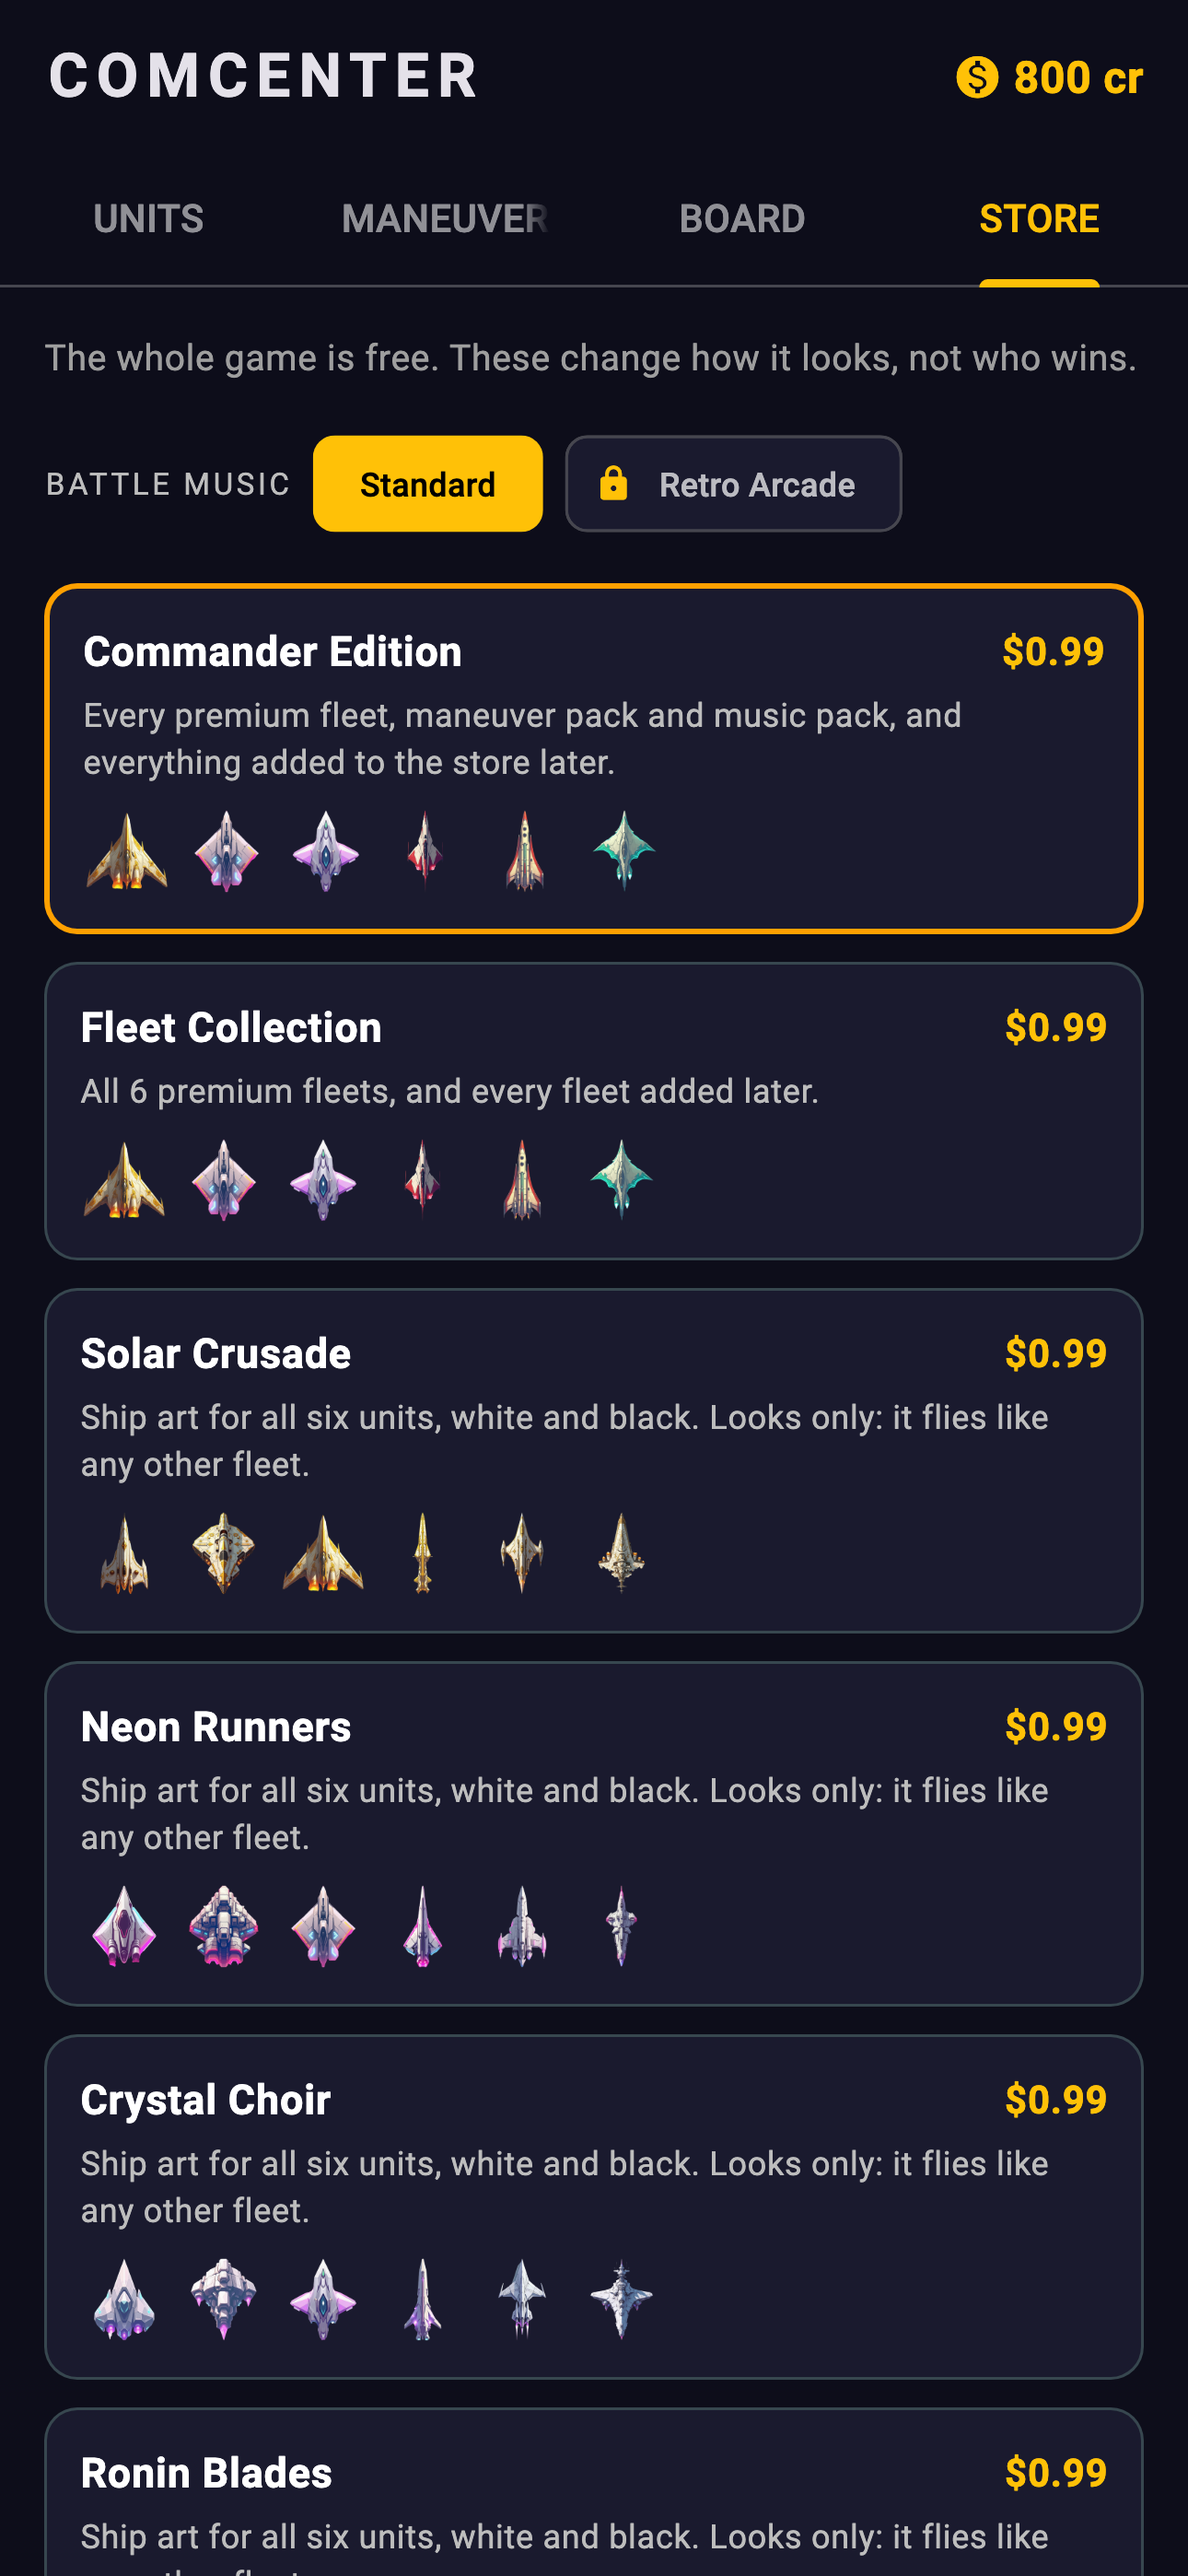
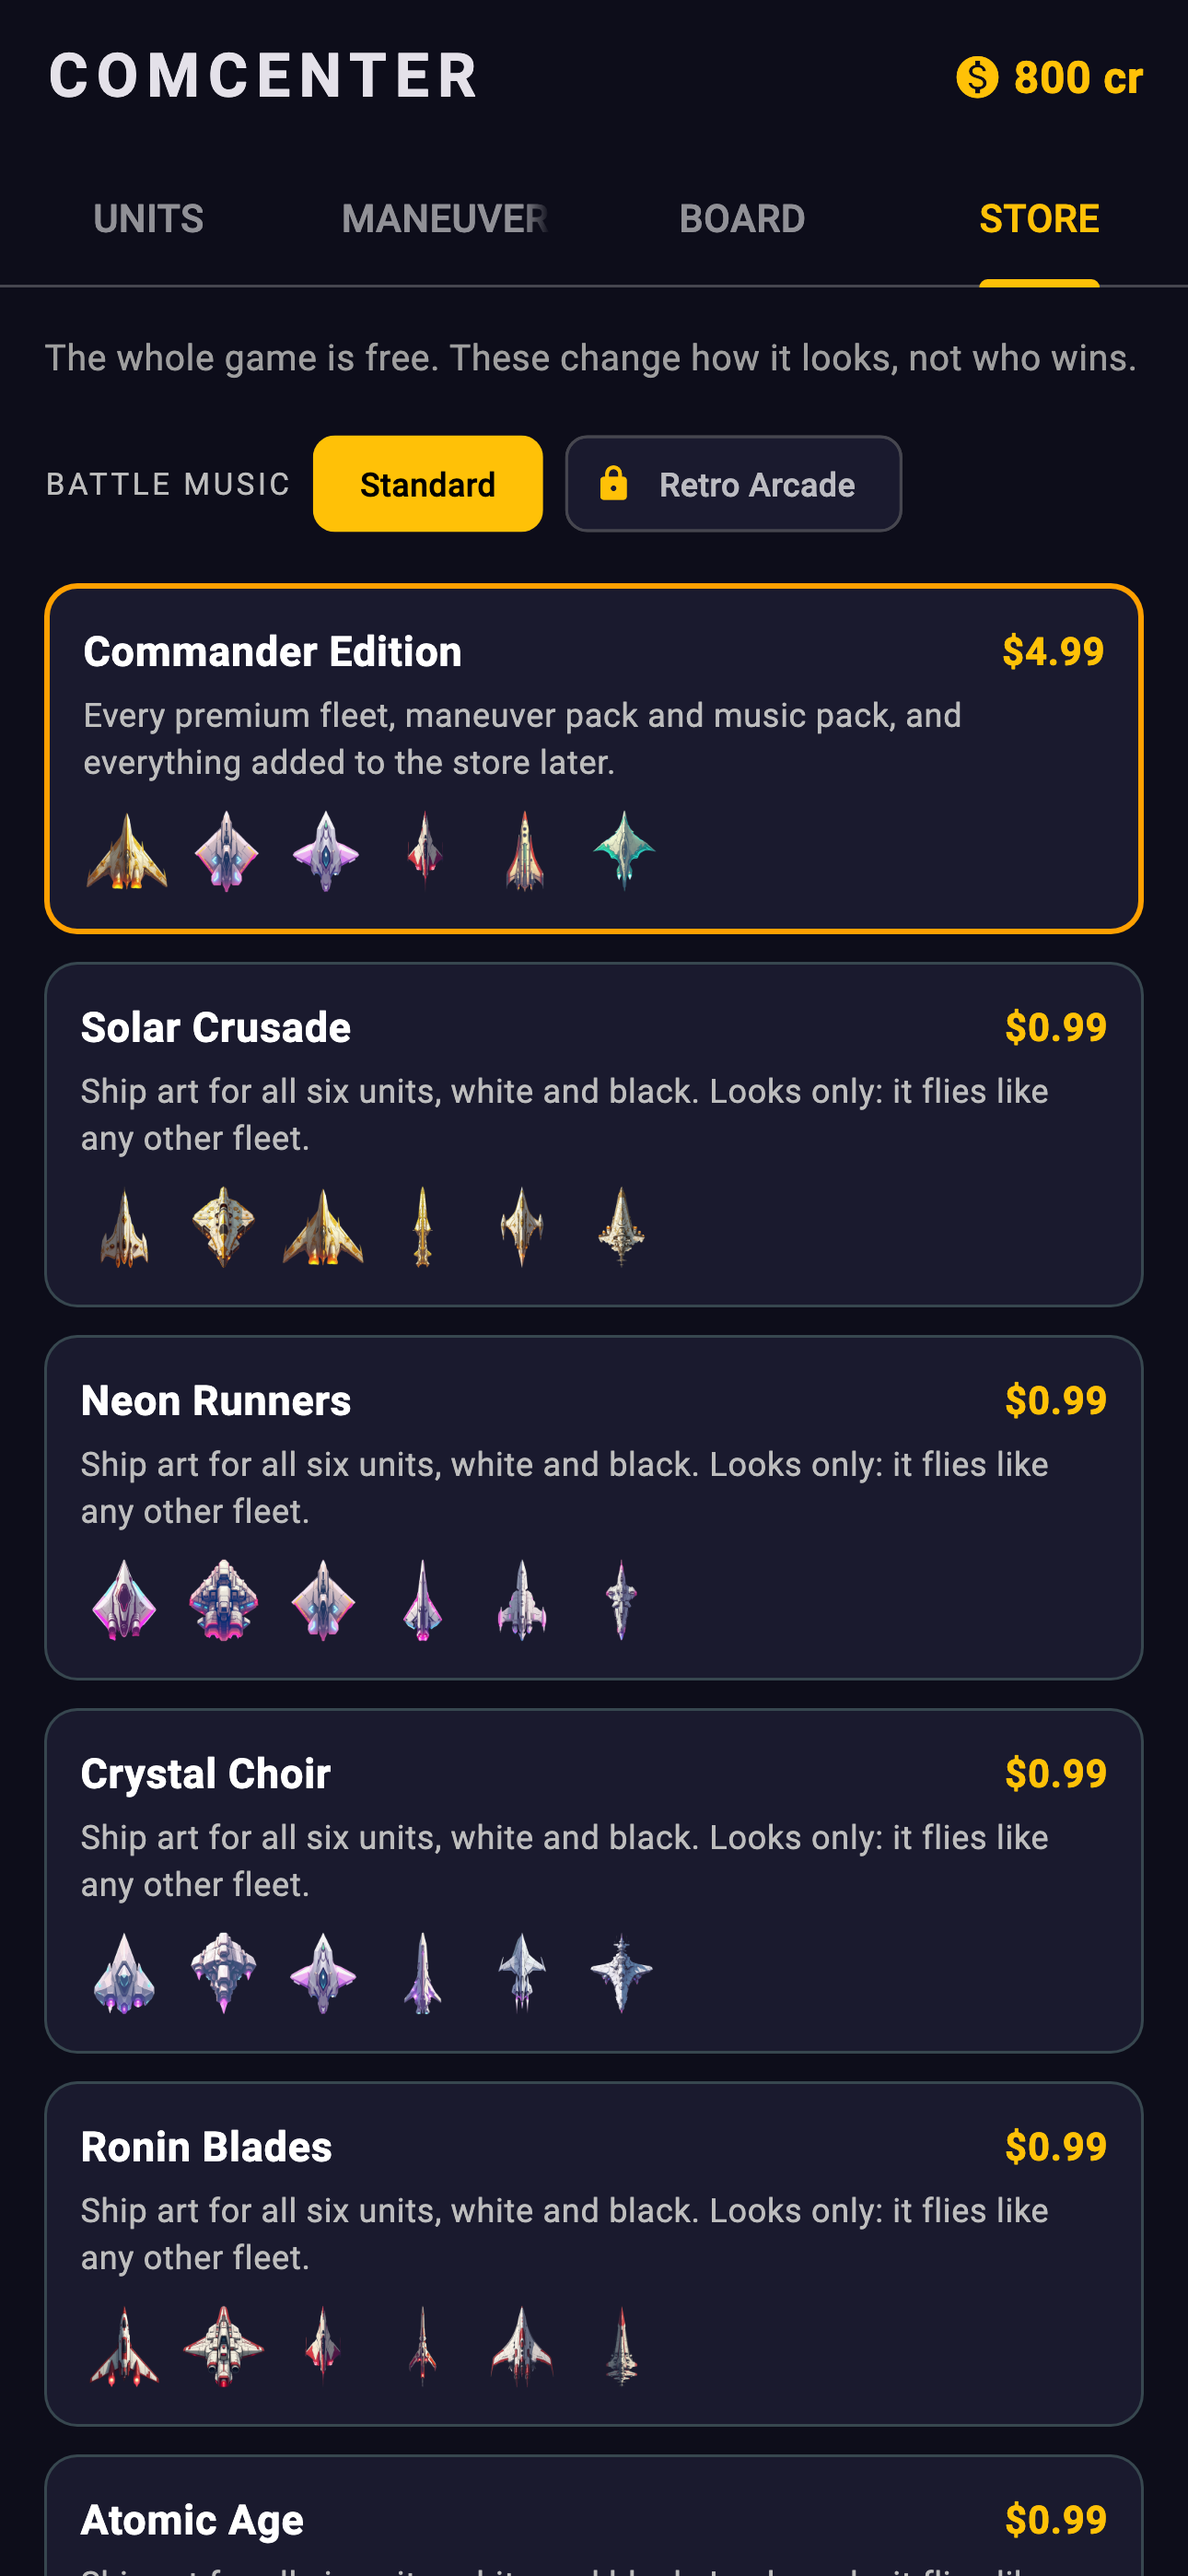
feat(store): Commander Edition at USD 4.99, Fleet Collection dropped
Olin: one pack USD 0.99, all packs USD 4.99. The Commander Edition is
the one bundle; the Fleet Collection (the six fleets) is gone, so a fleet
is bought alone or with everything. 11 products.

Claude-Session: https://claude.ai/code/session_01RgN3TZvuACGJsvKU29TVzv

Changed region(s): [[0.031, 0.3734, 0.9612, 1.0], [0.7752, 0.4045, 0.8682, 0.4356]]

diff --git a/test/store_screenshots/store_screenshots_test.dart b/test/store_screenshots/store_screenshots_test.dart
@@ -37,6 +37,7 @@ import 'package:orbitron_tactics/features/onboarding/presentation/how_to_play_sc
 import 'package:orbitron_tactics/features/progress/data/fleet_progress_store.dart';
 import 'package:orbitron_tactics/features/progress/presentation/providers/fleet_progress_provider.dart';
 import 'package:orbitron_tactics/features/store/data/purchase_service.dart';
+import 'package:orbitron_tactics/features/store/data/store_catalog.dart';
 import 'package:orbitron_tactics/features/store/presentation/providers/store_providers.dart';
 import 'package:orbitron_tactics/main.dart';
 import 'package:shared_preferences/shared_preferences.dart';
@@ -72,9 +73,12 @@ class _ShopWindow extends PurchaseService {
           id: _price(id),
       };
 
-  // Every product costs USD 0.99; the Czech price stays in dollars because
-  // the store's own conversion to crowns is not known here.
-  String _price(String id) => czech ? '0,99 US\$' : '\$0.99';
+  // USD 0.99 a product, 4.99 the Commander Edition; the Czech price stays in
+  // dollars because the store's own conversion to crowns is not known here.
+  String _price(String id) {
+    final usd = id == StoreCatalog.commanderId ? '4.99' : '0.99';
+    return czech ? '${usd.replaceAll('.', ',')} US\$' : '\$$usd';
+  }
 
   @override
   Future<Set<String>> owned() async => {};

diff --git a/lib/features/store/data/store_catalog.dart b/lib/features/store/data/store_catalog.dart
@@ -4,7 +4,7 @@ import '../../battle/data/battle_music.dart';
 import '../../battle/data/fleet_skin.dart';
 
 /// What a store item hands over.
-enum StoreItemKind { commander, fleetBundle, fleet, maneuverPack, music }
+enum StoreItemKind { commander, fleet, maneuverPack, music }
 
 /// One product in the store. [id] is the product id in Google Play and App
 /// Store Connect, the same on both.
@@ -44,7 +44,6 @@ class StoreCatalog {
   static const _prefix = 'com.ol1n.orbitrontactics.pack.';
 
   static const commanderId = '${_prefix}commander';
-  static const fleetBundleId = '${_prefix}fleets';
 
   static String fleetId(FleetSkin skin) => '${_prefix}fleet_${skin.slug}';
   static String packId(String pack) => '$_prefix$pack';
@@ -63,13 +62,6 @@ class StoreCatalog {
       title: 'Commander Edition',
       description: 'Every premium fleet, maneuver pack and music pack, and '
           'everything added to the store later.',
-    ),
-    StoreItem._(
-      id: fleetBundleId,
-      kind: StoreItemKind.fleetBundle,
-      title: 'Fleet Collection',
-      description: 'All ${premiumFleets.length} premium fleets, and every '
-          'fleet added later.',
     ),
     for (final skin in premiumFleets)
       StoreItem._(

diff --git a/test/features/store/entitlements_test.dart b/test/features/store/entitlements_test.dart
@@ -56,15 +56,6 @@ void main() {
       expect(one.ownsFleet(solar), isTrue);
       expect(one.ownsFleet(neon), isFalse);
       expect(one.owns(StoreCatalog.forFleet(solar)), isTrue);
-      expect(one.owns(StoreCatalog.byId(StoreCatalog.fleetBundleId)!),
-          isFalse);
-    });
-
-    test('the fleet collection unlocks every fleet, not the packs', () {
-      const bundle = Entitlements(products: {StoreCatalog.fleetBundleId});
-      expect(StoreCatalog.premiumFleets.every(bundle.ownsFleet), isTrue);
-      expect(bundle.ownsPack('ace'), isFalse);
-      expect(bundle.ownedPacks, isEmpty);
     });
 
     test('the commander edition unlocks everything', () {
@@ -86,7 +77,7 @@ void main() {
               .ownsMusic(BattleMusic.retro),
           isTrue);
       expect(
-          const Entitlements(products: {StoreCatalog.fleetBundleId})
+          Entitlements(products: {StoreCatalog.fleetId(FleetSkin.solarCrusade)})
               .ownsMusic(BattleMusic.retro),
           isFalse);
     });

diff --git a/lib/l10n/l10n.dart b/lib/l10n/l10n.dart
@@ -60,7 +60,6 @@ extension ContentL10n on AppLocalizations {
 
   String storeTitle(StoreItem item) => switch (item.kind) {
         StoreItemKind.commander => itemCommanderTitle,
-        StoreItemKind.fleetBundle => itemFleetsTitle,
         StoreItemKind.fleet => item.fleet!.displayName,
         StoreItemKind.maneuverPack => packName(item.pack!),
         StoreItemKind.music => itemMusicTitle(musicName(item.music!)),
@@ -68,8 +67,6 @@ extension ContentL10n on AppLocalizations {
 
   String storeDescription(StoreItem item) => switch (item.kind) {
         StoreItemKind.commander => itemCommanderDescription,
-        StoreItemKind.fleetBundle =>
-          itemFleetsDescription(StoreCatalog.premiumFleets.length),
         StoreItemKind.fleet => itemFleetDescription,
         StoreItemKind.maneuverPack => content(item.pack!.description),
         StoreItemKind.music => itemMusicDescription,

diff --git a/lib/features/store/data/entitlements.dart b/lib/features/store/data/entitlements.dart
@@ -17,12 +17,10 @@ class Entitlements {
 
   bool get commander => products.contains(StoreCatalog.commanderId);
 
-  bool get allFleets =>
-      commander || products.contains(StoreCatalog.fleetBundleId);
 
   bool ownsFleet(FleetSkin skin) =>
       !skin.premium ||
-      allFleets ||
+      commander ||
       products.contains(StoreCatalog.fleetId(skin)) ||
       legacyFleets.contains(skin.slug);
 
@@ -37,7 +35,6 @@ class Entitlements {
   /// Whether everything [item] hands over is already here.
   bool owns(StoreItem item) => switch (item.kind) {
         StoreItemKind.commander => commander,
-        StoreItemKind.fleetBundle => allFleets,
         StoreItemKind.fleet => ownsFleet(item.fleet!),
         StoreItemKind.maneuverPack => ownsPack(item.pack!.id),
         StoreItemKind.music => ownsMusic(item.music!),

diff --git a/lib/l10n/app_localizations.dart b/lib/l10n/app_localizations.dart
@@ -752,18 +752,6 @@ abstract class AppLocalizations {
   /// **'Every premium fleet, maneuver pack and music pack, and everything added to the store later.'**
   String get itemCommanderDescription;
 
-  /// No description provided for @itemFleetsTitle.
-  ///
-  /// In en, this message translates to:
-  /// **'Fleet Collection'**
-  String get itemFleetsTitle;
-
-  /// No description provided for @itemFleetsDescription.
-  ///
-  /// In en, this message translates to:
-  /// **'All {count} premium fleets, and every fleet added later.'**
-  String itemFleetsDescription(int count);
-
   /// No description provided for @itemFleetDescription.
   ///
   /// In en, this message translates to:

diff --git a/lib/l10n/app_localizations_cs.dart b/lib/l10n/app_localizations_cs.dart
@@ -402,14 +402,6 @@ class AppLocalizationsCs extends AppLocalizations {
       'Všechny prémiové flotily, balíčky manévrů i hudby a vše, co do obchodu přibude.';
 
   @override
-  String get itemFleetsTitle => 'Sbírka flotil';
-
-  @override
-  String itemFleetsDescription(int count) {
-    return 'Všech $count prémiových flotil a každá další, která přibude.';
-  }
-
-  @override
   String get itemFleetDescription =>
       'Vzhled lodí všech šesti jednotek, bílých i černých. Jen vzhled: létá jako každá jiná flotila.';
 

diff --git a/lib/l10n/app_localizations_en.dart b/lib/l10n/app_localizations_en.dart
@@ -400,14 +400,6 @@ class AppLocalizationsEn extends AppLocalizations {
       'Every premium fleet, maneuver pack and music pack, and everything added to the store later.';
 
   @override
-  String get itemFleetsTitle => 'Fleet Collection';
-
-  @override
-  String itemFleetsDescription(int count) {
-    return 'All $count premium fleets, and every fleet added later.';
-  }
-
-  @override
   String get itemFleetDescription =>
       'Ship art for all six units, white and black. Looks only: it flies like any other fleet.';
 

diff --git a/test/features/store/store_ui_test.dart b/test/features/store/store_ui_test.dart
@@ -79,6 +79,8 @@ void main() {
             .descendant(
                 of: find.byType(StoreTab), matching: find.byType(Scrollable))
             .first);
+    await tester.ensureVisible(find.text('RESTORE PURCHASES'));
+    await tester.pumpAndSettle();
     await tester.tap(find.text('RESTORE PURCHASES'));
     await tester.pumpAndSettle();
 

diff --git a/lib/features/store/presentation/widgets/store_item_preview.dart b/lib/features/store/presentation/widgets/store_item_preview.dart
@@ -28,7 +28,6 @@ class StoreItemPreview extends StatelessWidget {
           ],
           size: size,
         );
-      case StoreItemKind.fleetBundle:
       case StoreItemKind.commander:
         return _Ships(
           assets: [

diff --git a/Prompts/10-RELEASE-checklist.md b/Prompts/10-RELEASE-checklist.md
@@ -4,7 +4,7 @@
 > `claude/plan-monetizace` (Android podpis, Supabase RLS, telemetrie, obchod,
 > onboarding). Tady jsou kroky, které potřebují tvoje účty, klíče nebo Mac.
 > Od té doby přibyly: balíčky manévrů Phantom a Striker, hudba Retro Arcade,
-> čeština v aplikaci a screenshoty do storu. Produktů je teď **12**.
+> čeština v aplikaci a screenshoty do storu. Produktů je teď **11** (Sbírka flotil zrušena 21/11/2026).
 >
 > **Oprava 20/11/2026:** sekce 2, 6 a 7 přepsané podle existující release
 > pipeline (`.github/workflows/release-*.yml` podepisuje a nahrává sám,
@@ -73,9 +73,10 @@ sentry.io → nový projekt Flutter → zkopíruj DSN do `release.json`
    upload klíčem z kroku 2.
 3. Účet je firemní (organizace): podmínka 12 testerů na 14 dní neplatí,
    vydává se rovnou do produkce. Interní test pro vlastní kontrolu stačí.
-4. Monetize → In-app products: založ 12 jednorázových produktů podle
+4. Monetize → In-app products: založ 11 jednorázových produktů podle
    tabulky v `docs/store-listing.md` (id musí sedět přesně), každý za
-   USD 0,99 (ostatní měny automatický přepočet), stav Active.
+   USD 0,99, Edice Velitel za USD 4,99 (ostatní měny automatický
+   přepočet), stav Active.
 5. Settings → License testing: přidej svůj Google účet a testery
    (nákupy zdarma, testovací karta).
 6. Data safety, Content rating, Target audience 13+: odpovědi jsou
@@ -92,7 +93,7 @@ sentry.io → nový projekt Flutter → zkopíruj DSN do `release.json`
    credentials“; oprávnění se propisují až 36 h).
 2. **App Store app**: bundle id `com.ol1n.orbitronTactics`, In-App
    Purchase Key z App Store Connect.
-3. Products → Import: všech 12 produktů z obou storů. **Entitlements ani
+3. Products → Import: všech 11 produktů z obou storů. **Entitlements ani
    Offerings nejsou potřeba**, aplikace mapuje id produktů na obsah sama.
 4. API keys → public SDK keys `goog_...` a `appl_...` do `release.json`.
 
@@ -120,7 +121,7 @@ v kódu míří na stávající projekt.
 1. Apple Developer Program, App ID `com.ol1n.orbitronTactics` s capability
    **In-App Purchase**; provisioning profil a certifikát jsou v secrets
    (`IOS_*`, `APP_STORE_CONNECT_API_*`, z repa Distribution).
-2. App Store Connect: nová aplikace, 12 In-App Purchases (Non-Consumable,
+2. App Store Connect: nová aplikace, 11 In-App Purchases (Non-Consumable,
    stejná id), každý s review screenshotem; odeslat spolu s prvním buildem.
 3. `git tag v1.0.0 && git push origin v1.0.0` spustí oba workflow. Verze
    se bere z tagu, číslo buildu je číslo běhu.

diff --git a/docs/store-listing.md b/docs/store-listing.md
@@ -90,22 +90,21 @@ ne to, kdo vyhraje.
 
 Product ids are the same on Google Play and in App Store Connect.
 
-Price: **USD 0.99 each** (App Store price point USD 0.99; other currencies by the store's automatic conversion, the same on Google Play).
+Price: **USD 0.99** for each single product, **USD 4.99** for the Commander Edition (everything); store price points in USD, other currencies by the store's automatic conversion, the same on Google Play.
 
-| Product id | Name |
-|---|---|
-| `com.ol1n.orbitrontactics.pack.commander` | Commander Edition |
-| `com.ol1n.orbitrontactics.pack.fleets` | Fleet Collection |
-| `com.ol1n.orbitrontactics.pack.fleet_solar_crusade` | Solar Crusade |
-| `com.ol1n.orbitrontactics.pack.fleet_neon_runners` | Neon Runners |
-| `com.ol1n.orbitrontactics.pack.fleet_crystal_choir` | Crystal Choir |
-| `com.ol1n.orbitrontactics.pack.fleet_ronin_blades` | Ronin Blades |
-| `com.ol1n.orbitrontactics.pack.fleet_atomic_age` | Atomic Age |
-| `com.ol1n.orbitrontactics.pack.fleet_abyssal_tide` | Abyssal Tide |
-| `com.ol1n.orbitrontactics.pack.ace` | Ace pack |
-| `com.ol1n.orbitrontactics.pack.phantom` | Phantom pack |
-| `com.ol1n.orbitrontactics.pack.striker` | Striker pack |
-| `com.ol1n.orbitrontactics.pack.music_retro` | Retro Arcade music |
+| Product id | Name | USD |
+|---|---|---|
+| `com.ol1n.orbitrontactics.pack.commander` | Commander Edition | 4.99 |
+| `com.ol1n.orbitrontactics.pack.fleet_solar_crusade` | Solar Crusade | 0.99 |
+| `com.ol1n.orbitrontactics.pack.fleet_neon_runners` | Neon Runners | 0.99 |
+| `com.ol1n.orbitrontactics.pack.fleet_crystal_choir` | Crystal Choir | 0.99 |
+| `com.ol1n.orbitrontactics.pack.fleet_ronin_blades` | Ronin Blades | 0.99 |
+| `com.ol1n.orbitrontactics.pack.fleet_atomic_age` | Atomic Age | 0.99 |
+| `com.ol1n.orbitrontactics.pack.fleet_abyssal_tide` | Abyssal Tide | 0.99 |
+| `com.ol1n.orbitrontactics.pack.ace` | Ace pack | 0.99 |
+| `com.ol1n.orbitrontactics.pack.phantom` | Phantom pack | 0.99 |
+| `com.ol1n.orbitrontactics.pack.striker` | Striker pack | 0.99 |
+| `com.ol1n.orbitrontactics.pack.music_retro` | Retro Arcade music | 0.99 |
 
 The ids come from `StoreCatalog` in the app; a product the app does not
 know is ignored, and an item the store does not list shows "Not in the
